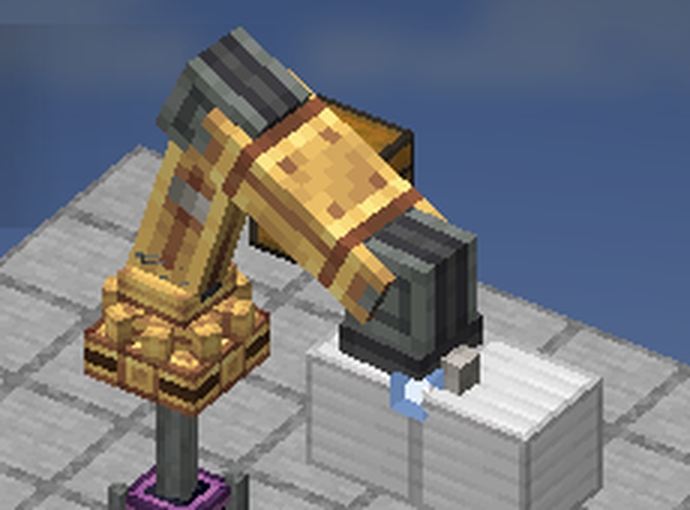
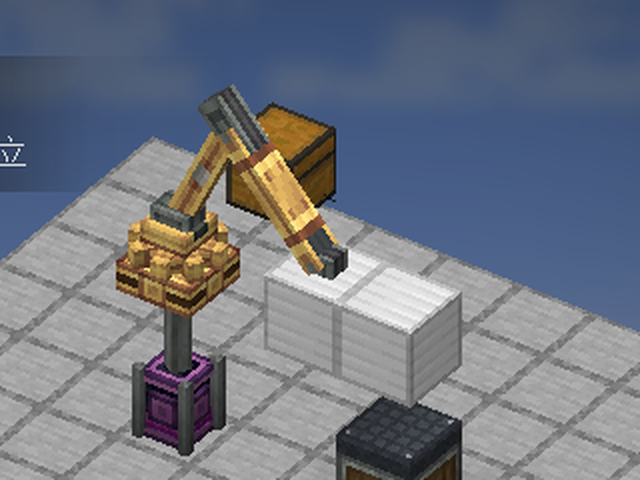
Industrial arm: keep Create's thickness, lengthen only the arm segments
Port Create's ArmAngleTarget maths into ArmPose.angles with longer segments
(checked against Create at its own lengths) and stretch only the two segments
when drawing; joints, claw and tools keep Create's size.

diff --git a/src/main/java/net/createplant/arm/ArmPose.java b/src/main/java/net/createplant/arm/ArmPose.java
@@ -1,86 +1,62 @@
 package net.createplant.arm;
 
-import com.mojang.logging.LogUtils;
-import java.lang.reflect.Field;
+import net.createmod.catnip.math.AngleHelper;
+import net.createmod.catnip.math.VecHelper;
 import net.minecraft.core.BlockPos;
 import net.minecraft.core.Direction;
+import net.minecraft.util.Mth;
 import net.minecraft.world.phys.Vec3;
 
 /**
- * Joint angles of a Create mechanical arm reaching a point. The angle maths is Create's {@code ArmAngleTarget}, whose angles are
- * package-private; they are read by reflection, because AGENTS.md rules out Mixin and a class in Create's package would split it.
- * Any failure gives the rest pose, so a pose can never crash the renderer.
+ * Joint angles of the industrial arm reaching a point. This is the maths of Create's {@code ArmAngleTarget} (claw facing down,
+ * floor mounted), with the two arm segments {@link #SCALE} times longer; the joints, the claw and the thickness stay Create's.
+ * {@code ArmAssemblyGameTests} checks it against Create's own result at scale 1.
  */
 public final class ArmPose {
-    private static final org.slf4j.Logger LOGGER = LogUtils.getLogger();
     /** base, lower arm, upper arm, head, as Create's arm block entity chases them. */
     public static final float[] REST = {0, 135, 45, 0};
-    /** The industrial arm is Create's arm drawn this many times larger from the shoulder up, so it reaches across a 3 x 3 jig. */
+    /** The two arm segments are this many times longer than Create's, so the arm reaches across a 3 x 3 jig. */
     public static final float SCALE = 2;
     /** Create's shoulder above the arm block's centre, the lengths of its two arm segments and its shortest reach. */
-    private static final double SHOULDER = .375, LOWER = .875, UPPER = .9375, NEAREST = .125;
+    public static final double SHOULDER = .375, LOWER = .875, UPPER = .9375, NEAREST = .125;
     /** Create puts the wrist half a block above the point the claw aims at. */
     private static final double WRIST = .5;
-    private static Field base, lower, upper, head;
-    private static boolean broken;
 
     private ArmPose() {}
-
-    private static synchronized boolean ready() {
-        if (broken) return false;
-        if (base != null) return true;
-        try {
-            Class<?> c = Class.forName("com.simibubi.create.content.kinetics.mechanicalArm.ArmAngleTarget");
-            base = field(c, "baseAngle");
-            lower = field(c, "lowerArmAngle");
-            upper = field(c, "upperArmAngle");
-            head = field(c, "headAngle");
-            try {
-                Object rest = field(c, "NO_TARGET").get(null);
-                REST[0] = base.getFloat(rest);
-                REST[1] = lower.getFloat(rest);
-                REST[2] = upper.getFloat(rest);
-                REST[3] = head.getFloat(rest);
-            } catch (ReflectiveOperationException | RuntimeException e) {
-                // keep the standard rest pose
-            }
-            return true;
-        } catch (ReflectiveOperationException | RuntimeException e) {
-            broken = true;
-            LOGGER.warn("Cannot read the angles of Create's arm, the industrial arm will stay in its rest pose", e);
-            return false;
-        }
-    }
-
-    private static Field field(Class<?> c, String name) throws NoSuchFieldException {
-        Field f = c.getDeclaredField(name);
-        f.setAccessible(true);
-        return f;
-    }
 
     private static Vec3 shoulder(BlockPos arm) {
         return Vec3.atCenterOf(arm).add(0, SHOULDER, 0);
     }
 
-    /** Whether the claw of the arm at {@code arm} can touch {@code target}; Create's arm stops short of anything farther. */
+    /** Whether the claw of the arm at {@code arm} can touch {@code target}; the arm stops short of anything farther. */
     public static boolean reaches(BlockPos arm, Vec3 target) {
-        double d = target.add(0, WRIST * SCALE, 0).distanceTo(shoulder(arm));
-        return d <= (LOWER + UPPER) * SCALE && d >= NEAREST * SCALE;
+        double d = target.add(0, WRIST, 0).distanceTo(shoulder(arm));
+        return d <= (LOWER + UPPER) * SCALE && d >= NEAREST;
     }
 
-    /** Joint angles that put the claw on {@code target}, worked out by Create in the arm's own unscaled size. */
+    /** Joint angles that put the claw on {@code target}. */
     public static float[] toward(BlockPos arm, Vec3 target) {
-        if (!ready()) return REST.clone();
-        Vec3 shoulder = shoulder(arm);
-        target = shoulder.add(target.subtract(shoulder).scale(1 / SCALE));
-        try {
-            Object t = Class.forName("com.simibubi.create.content.kinetics.mechanicalArm.ArmAngleTarget")
-                    .getConstructor(BlockPos.class, Vec3.class, Direction.class, boolean.class).newInstance(arm, target, Direction.DOWN, false);
-            float[] a = {base.getFloat(t), lower.getFloat(t), upper.getFloat(t), head.getFloat(t)};
-            for (float f : a) if (Float.isNaN(f) || Float.isInfinite(f)) return REST.clone();
-            return a;
-        } catch (ReflectiveOperationException | RuntimeException e) {
-            return REST.clone();
-        }
+        float[] r = angles(shoulder(arm), target, (float) (LOWER * SCALE), (float) (UPPER * SCALE));
+        for (float f : r) if (!Float.isFinite(f)) return REST.clone();
+        return r;
+    }
+
+    /** Create's ArmAngleTarget with segment lengths {@code a} and {@code b}. */
+    public static float[] angles(Vec3 origin, Vec3 target, float a, float b) {
+        Vec3 diff = target.add(0, WRIST, 0).subtract(origin);
+        float h = (float) diff.multiply(1, 0, 1).length();
+        float base = AngleHelper.deg(Mth.atan2(diff.x, diff.z)) + 180;
+        float alpha = AngleHelper.deg(Mth.atan2(diff.y, h));
+        float d = Mth.clamp(Mth.sqrt((float) (diff.y * diff.y + h * h)), (float) NEAREST, a + b), d2 = d * d;
+        float lower = AngleHelper.deg(Math.acos((a * a + d2 - b * b) / (2 * a * d))) + alpha;
+        float upper = AngleHelper.deg(Math.acos((a * a + b * b - d2) / (2 * b * a)));
+        if (Float.isNaN(lower)) lower = 0;
+        if (Float.isNaN(upper)) upper = 0;
+        Vec3 wrist = VecHelper.rotate(new Vec3(0, b, 0), upper + 180, Direction.Axis.X);
+        wrist = VecHelper.rotate(wrist.add(0, a, 0), lower - 90, Direction.Axis.X);
+        wrist = VecHelper.rotate(wrist, base, Direction.Axis.Y).add(origin);
+        Vec3 head = target.subtract(wrist);
+        float head2 = AngleHelper.deg(Mth.atan2(head.y, head.multiply(1, 0, 1).length())) - lower - upper - 135;
+        return new float[] {base, lower, upper, head2};
     }
 }

diff --git a/src/main/java/net/createplant/client/IndustrialArmRenderer.java b/src/main/java/net/createplant/client/IndustrialArmRenderer.java
@@ -27,8 +27,8 @@ import net.minecraft.world.level.block.state.BlockState;
 import net.minecraft.world.phys.AABB;
 
 /**
- * Draws the arm from Create's own partial models and joint transforms, so it moves exactly like a mechanical arm. A yellow tint
- * and the tool at the claw tell it apart. Plain block entity rendering: no Flywheel instancing.
+ * Draws the arm from Create's own partial models and joint transforms, so it moves exactly like a mechanical arm. Longer arm
+ * segments and the tool at the claw tell it apart. Plain block entity rendering: no Flywheel instancing.
  */
 public class IndustrialArmRenderer implements BlockEntityRenderer<IndustrialArmBlockEntity> {
     /** A tool is drawn this large in the claw's frame and ends where the claw aims, half a block past the wrist. */
@@ -59,10 +59,12 @@ public class IndustrialArmRenderer implements BlockEntityRenderer<IndustrialArmB
         ArmRenderer.transformBase(msr, base);
         part(AllPartialModels.ARM_BASE, state, light, local, ps, vb);
         ArmRenderer.transformLowerArm(msr, lower);
-        msr.scale(ArmPose.SCALE);
-        part(AllPartialModels.ARM_LOWER_BODY, state, light, local, ps, vb);
+        stretched(AllPartialModels.ARM_LOWER_BODY, state, light, local, ps, vb);
+        // Create's joint offsets lie along the segment's -Z; only the segments get longer, the joints keep Create's size.
+        local.translate(0, 0, -ArmPose.LOWER * (ArmPose.SCALE - 1));
         ArmRenderer.transformUpperArm(msr, upper);
-        part(AllPartialModels.ARM_UPPER_BODY, state, light, local, ps, vb);
+        stretched(AllPartialModels.ARM_UPPER_BODY, state, light, local, ps, vb);
+        local.translate(0, 0, -ArmPose.UPPER * (ArmPose.SCALE - 1));
         ArmRenderer.transformHead(msr, head);
         msr.rotateZDegrees(180);
         part(AllPartialModels.ARM_CLAW_BASE, state, light, local, ps, vb);
@@ -86,6 +88,14 @@ public class IndustrialArmRenderer implements BlockEntityRenderer<IndustrialArmB
             Minecraft.getInstance().getItemRenderer().renderStatic(shown, ItemDisplayContext.FIXED, light, OverlayTexture.NO_OVERLAY, ps, buffers, be.getLevel(), 0);
             ps.popPose();
         }
+    }
+
+    /** A segment drawn longer along its length only, so it keeps Create's thickness. */
+    private static void stretched(PartialModel model, BlockState state, int light, PoseStack local, PoseStack ps, VertexConsumer vb) {
+        local.pushPose();
+        local.scale(1, 1, ArmPose.SCALE);
+        part(model, state, light, local, ps, vb);
+        local.popPose();
     }
 
     private static void part(PartialModel model, BlockState state, int light, PoseStack local, PoseStack ps, VertexConsumer vb) {

diff --git a/src/main/java/net/createplant/gametest/ArmAssemblyGameTests.java b/src/main/java/net/createplant/gametest/ArmAssemblyGameTests.java
@@ -107,10 +107,33 @@ public class ArmAssemblyGameTests {
         BlockPos arm = h.absolutePos(JIG);
         Vec3 near = Vec3.atCenterOf(arm).add(2, .5, 1), far = Vec3.atCenterOf(arm).add(5, .5, 0);
         float[] a = net.createplant.arm.ArmPose.toward(arm, near), b = net.createplant.arm.ArmPose.toward(arm, Vec3.atCenterOf(arm).add(-2, .5, 1));
-        h.assertTrue(!java.util.Arrays.equals(a, net.createplant.arm.ArmPose.REST), "Create's arm angles are read, so the arm leaves its rest pose");
+        h.assertTrue(!java.util.Arrays.equals(a, net.createplant.arm.ArmPose.REST), "the arm leaves its rest pose");
         h.assertTrue(Math.abs(a[0] - b[0]) > 1, "a target on the other side turns the base");
         h.assertTrue(net.createplant.arm.ArmPose.reaches(arm, near) && !net.createplant.arm.ArmPose.reaches(arm, far), "steps two blocks away are in reach, five blocks away are not");
+        // At Create's segment lengths the port gives Create's own angles.
+        Vec3 shoulder = Vec3.atCenterOf(arm).add(0, net.createplant.arm.ArmPose.SHOULDER, 0);
+        for (Vec3 t : new Vec3[] {Vec3.atCenterOf(arm).add(1, -.3, .5), Vec3.atCenterOf(arm).add(-.4, .8, -1.2)}) {
+            float[] mine = net.createplant.arm.ArmPose.angles(shoulder, t, .875f, .9375f), create = createAngles(arm, t);
+            for (int i = 0; i < 4; i++) h.assertTrue(Math.abs(mine[i] - create[i]) < .01, "joint " + i + " matches Create: " + mine[i] + " vs " + create[i]);
+        }
         h.succeed();
+    }
+
+    private static float[] createAngles(BlockPos arm, Vec3 t) {
+        try {
+            Class<?> c = Class.forName("com.simibubi.create.content.kinetics.mechanicalArm.ArmAngleTarget");
+            Object o = c.getConstructor(BlockPos.class, Vec3.class, net.minecraft.core.Direction.class, boolean.class).newInstance(arm, t, net.minecraft.core.Direction.DOWN, false);
+            float[] r = new float[4];
+            String[] names = {"baseAngle", "lowerArmAngle", "upperArmAngle", "headAngle"};
+            for (int i = 0; i < 4; i++) {
+                var f = c.getDeclaredField(names[i]);
+                f.setAccessible(true);
+                r[i] = f.getFloat(o);
+            }
+            return r;
+        } catch (ReflectiveOperationException e) {
+            throw new IllegalStateException(e);
+        }
     }
 
     @GameTest(template = "test_empty", timeoutTicks = 600)

diff --git a/docs/reports/industrial-arm-2026-11-25.md b/docs/reports/industrial-arm-2026-11-25.md
@@ -53,4 +53,8 @@
 
 - 色: 描画の黄色の着色をやめ、ブロックとアイテムのモデルはCreateの `create:block/mechanical_arm/block` と `.../item` をそのまま使う。独自のアーム用テクスチャとブロックモデルは削除した。
 - ベルト: `IndustrialArmBlockEntity.findBeltJob` / `holdBeltItem` / `beltWork`。レシピは `ArmBeltRecipe`（`assembly/` で `input` を持つJSON）。取り合いは `CLAIMED`（WeakHashMap）で防ぐ。クライアントへは `shownPhase` で作業状態を送る（ベルト作業はジグ位置を持たないため）。Ponderの最後にデポで金床を溶接修理する場面を追加。
-- 確認: `ArmAssemblyGameTests`（デポ上の欠けた金床が溶接されて少し欠けた金床になる試験を追加、7件）、`MagneticMemoryLineGameTests`、`SurvivalReachabilityGameTests` の11件が成功。実クライアントでPonderを撮影し、Createと同じ色のアーム、ジグの継ぎ目とデポの金床での溶接の火花を確認した（`docs/quality/industrial-arm/weld-jig.png`, `weld-jig-side.png`, `weld-depot.png`）。ベルト（デポ以外）での動作は同じ `TransportedItemStackHandlerBehaviour` を使うが、実機では未確認。溶接ビードの色の変化は、トーチの頭に隠れて撮影でははっきり確認できていない。
+- 確認: `ArmAssemblyGameTests`（デポ上の欠けた金床が溶接されて少し欠けた金床になる試験を追加、7件）、`MagneticMemoryLineGameTests`、`SurvivalReachabilityGameTests` の11件が成功。実クライアントでPonderを撮影し、Createと同じ色のアーム、ジグの継ぎ目とデポの金床での溶接の火花を確認した（`docs/quality/industrial-arm/weld-jig.png`, `weld-depot.png`）。ベルト（デポ以外）での動作は同じ `TransportedItemStackHandlerBehaviour` を使うが、実機では未確認。溶接ビードの色の変化は、トーチの頭に隠れて撮影でははっきり確認できていない。
+
+## 修正（腕の太さ）
+
+肩から先を丸ごと2倍にしていたため腕が太すぎた。腕の2区間だけを長さ方向に2倍にし（`IndustrialArmRenderer.stretched`）、関節・爪・工具はCreateの大きさに戻した。手首から先が縮んだので、関節角はCreateの式を `ArmPose.angles` に移植して腕の長さだけを変えて解く（反射での角度読み取りは削除）。`theArmAimsWithCreatesAnglesWithinItsReach` で元の長さのときCreateの `ArmAngleTarget` と角度が一致することを確認。GameTest 11件成功、Ponderの撮影で細い腕がジグの継ぎ目とデポに届くことを確認。
